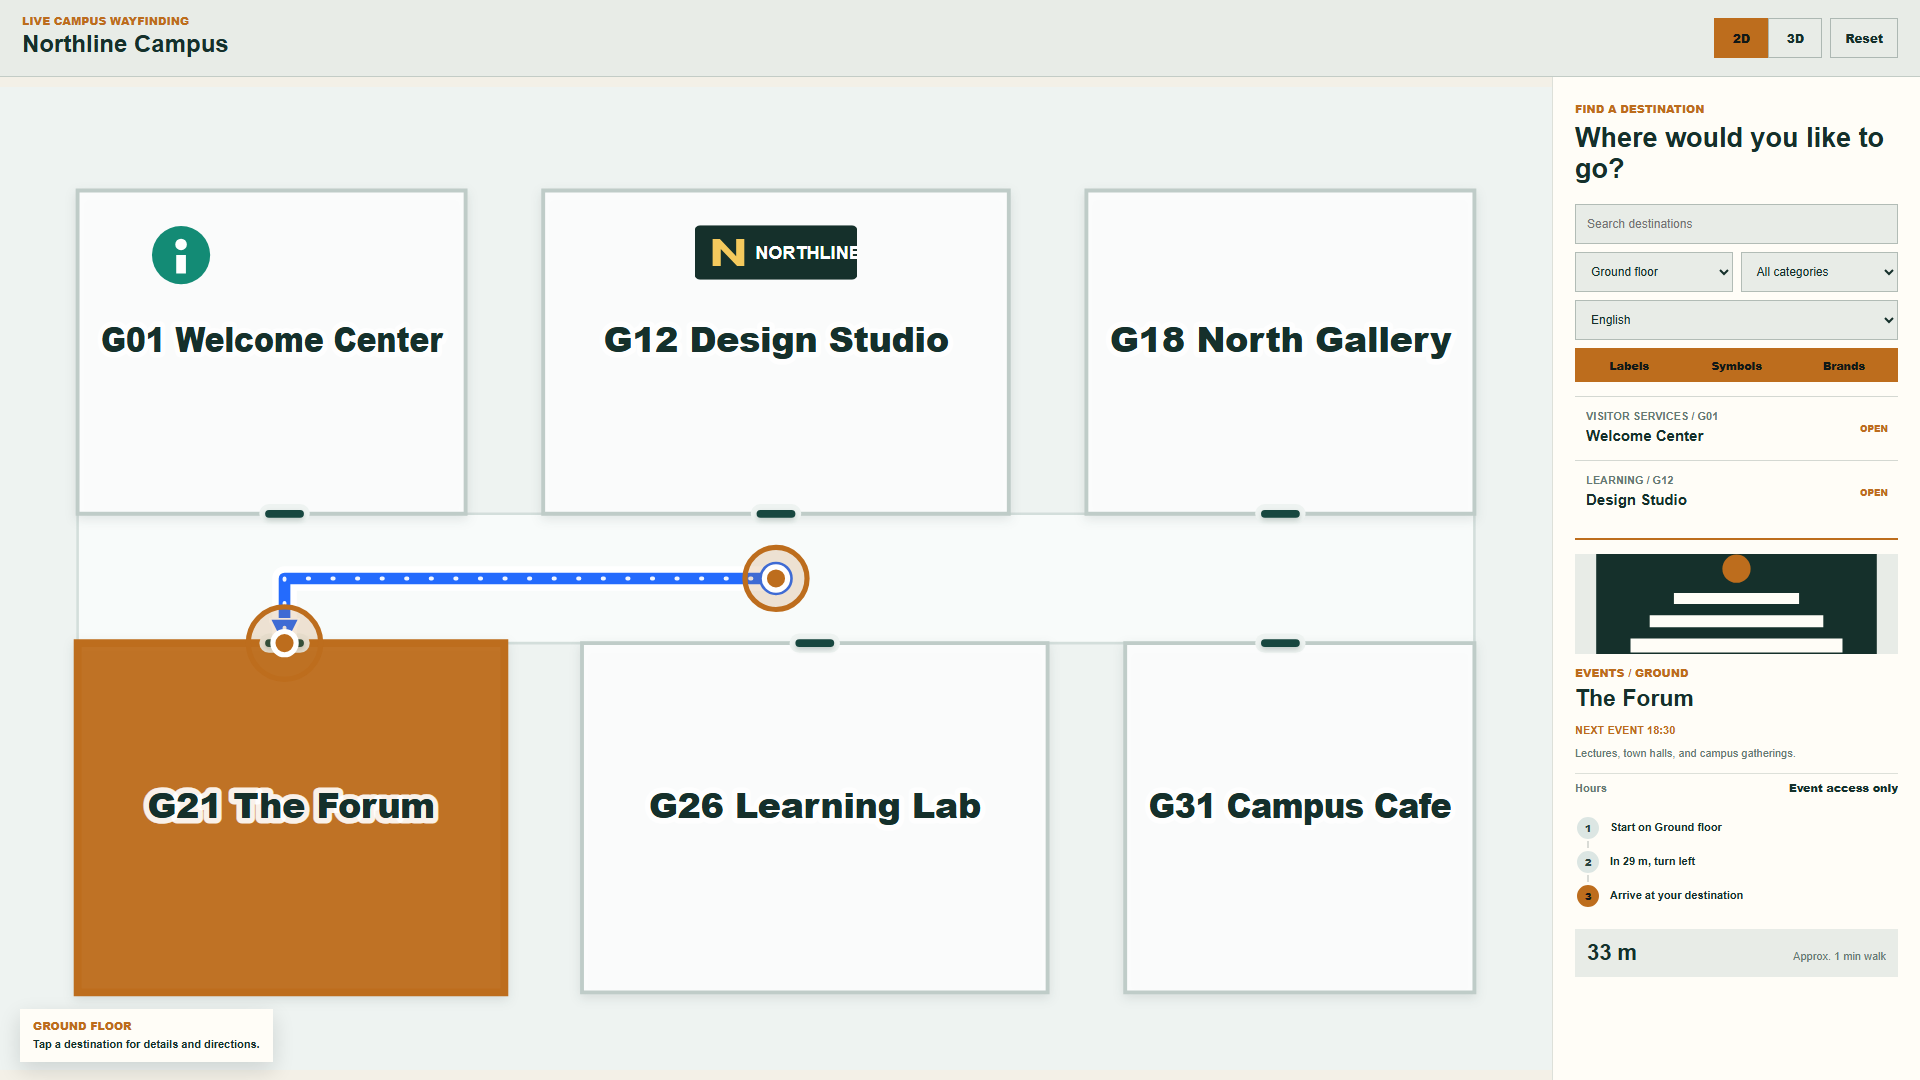
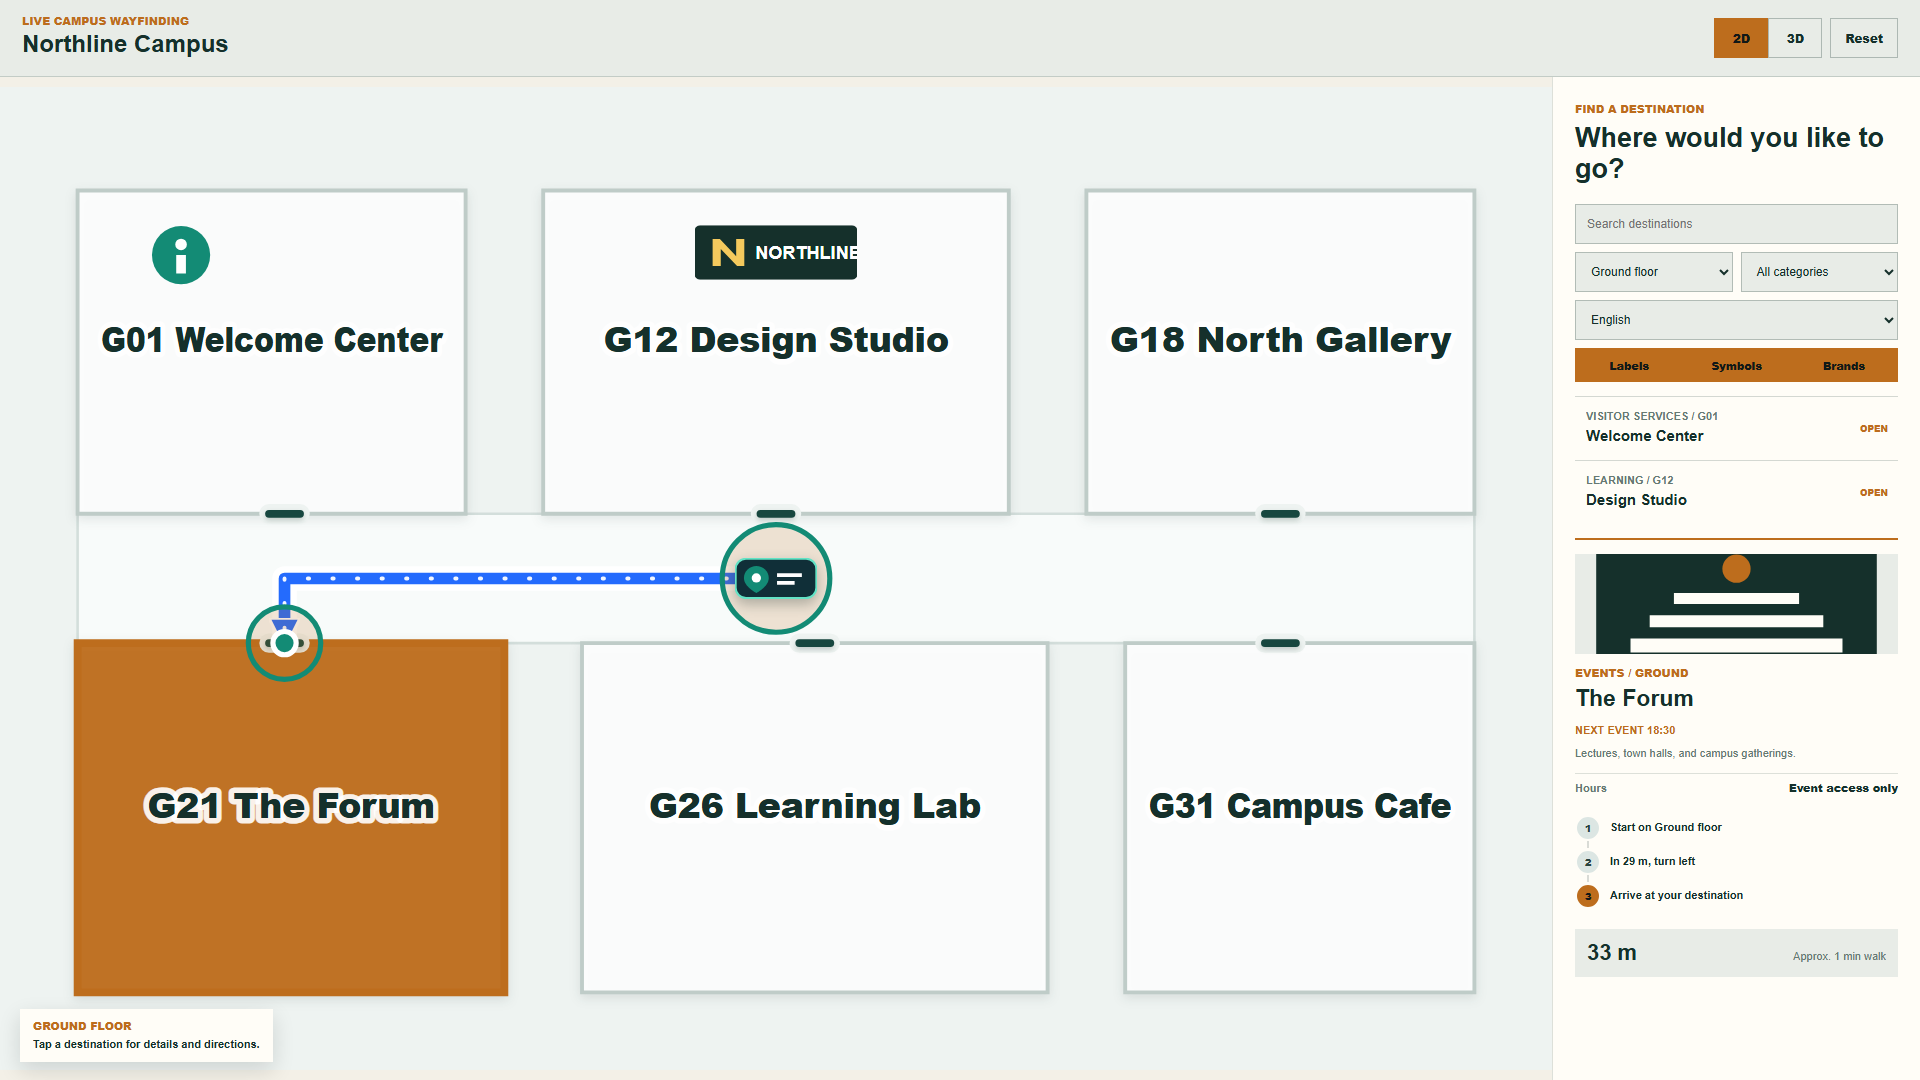
feat: support custom Wayfinding origin markers

Changed region(s): [[0.375, 0.4889, 0.4375, 0.5806], [0.125, 0.55, 0.1875, 0.6417]]

diff --git a/examples/spatial-wayfinding/overlay/src/utils/spatial-scene.ts b/examples/spatial-wayfinding/overlay/src/utils/spatial-scene.ts
@@ -10,6 +10,7 @@ import type {
 	RuntimeMedia,
 	RuntimeOrigin,
 	RuntimePointOfInterest,
+	RuntimeProjectDefaults,
 	RuntimePolygon
 } from '@interfaces/spatial-wayfinding.interface';
 
@@ -96,11 +97,23 @@ const createImageTexture = (
 	return texture;
 };
 
+const markerDimensions = (asset: RuntimeAsset, maximumSide: number): { height: number; width: number } => {
+	const ratio: number = Math.max(
+		0.2,
+		Math.min(5, (asset.naturalWidth ?? 1) / Math.max(1, asset.naturalHeight ?? 1))
+	);
+
+	return ratio >= 1
+		? { height: maximumSide / ratio, width: maximumSide }
+		: { height: maximumSide, width: maximumSide * ratio };
+};
+
 export interface SpatialSceneOptions {
 	accentColor: () => string;
 	assets: RuntimeAsset[];
 	motionEnabled: () => boolean;
 	onSelectDestination: (destinationId: string) => void;
+	originDefaults: RuntimeProjectDefaults['origin'];
 	routeAnimationSpeed: () => number;
 	routeColor: () => string;
 	routeWidth: () => number;
@@ -111,6 +124,7 @@ export class SpatialScene {
 	private readonly controls: OrbitControls;
 	private readonly destinationObjects = new Map<string, THREE.Object3D[]>();
 	private frameId?: number;
+	private readonly originMarkers: THREE.Object3D[] = [];
 	private readonly originPulses: THREE.Group[] = [];
 	private pointerStart?: { x: number; y: number };
 	private readonly raycaster = new THREE.Raycaster();
@@ -436,16 +450,49 @@ export class SpatialScene {
 	}
 
 	private addOrigin(element: RuntimeOrigin): void {
-		const color = '#0f8f78';
-		const marker = new THREE.Mesh(
-			new THREE.CylinderGeometry(13, 13, 8, 24),
-			new THREE.MeshStandardMaterial({ color, emissive: color, emissiveIntensity: 0.35 })
-		);
-		marker.position.copy(centeredPoint(this.floor, element.point, 8));
+		const defaults = this.options.originDefaults;
+		const color: string = defaults.color;
+		const markerSize: number = defaults.markerSize3d ?? 46;
+		const markerAsset: RuntimeAsset | undefined = defaults.markerAssetId
+			? this.options.assets.find(
+				(asset): boolean => asset.id === defaults.markerAssetId && asset.kind === 'symbol'
+			)
+			: undefined;
+		let marker: THREE.Object3D;
+
+		if (markerAsset) {
+			const dimensions = markerDimensions(markerAsset, markerSize);
+			const texture = createImageTexture(markerAsset, (): void => {
+				this.renderer.domElement.dataset.originMarkerTexture = 'ready';
+			});
+			const sprite = new THREE.Sprite(new THREE.SpriteMaterial({
+				depthTest: false,
+				map: texture,
+				transparent: true
+			}));
+			sprite.scale.set(dimensions.width, dimensions.height, 1);
+			sprite.position.copy(centeredPoint(this.floor, element.point, dimensions.height / 2 + 8));
+			sprite.renderOrder = 30;
+			marker = sprite;
+			this.renderer.domElement.setAttribute('data-origin-marker-3d', 'custom-image-replacement');
+			this.renderer.domElement.dataset.originMarkerSize3d = markerSize.toString();
+		} else {
+			const pin = new THREE.Mesh(
+				new THREE.CylinderGeometry(13, 13, 8, 24),
+				new THREE.MeshStandardMaterial({ color, emissive: color, emissiveIntensity: 0.35 })
+			);
+			pin.position.copy(centeredPoint(this.floor, element.point, 8));
+			marker = pin;
+			this.renderer.domElement.setAttribute('data-origin-marker-3d', 'default');
+		}
+
+		marker.userData.baseY = marker.position.y;
+		marker.userData.baseScale = marker.scale.clone();
+		this.originMarkers.push(marker);
 		const pulse = new THREE.Group();
 		pulse.position.copy(centeredPoint(this.floor, element.point, 3));
 		const ring = new THREE.Mesh(
-			new THREE.RingGeometry(18, 24, 32),
+			new THREE.RingGeometry(Math.max(18, markerSize * 0.42), Math.max(24, markerSize * 0.56), 32),
 			new THREE.MeshBasicMaterial({ color, side: THREE.DoubleSide, transparent: true, opacity: 0.72 })
 		);
 		ring.rotation.x = -Math.PI / 2;
@@ -468,6 +515,7 @@ export class SpatialScene {
 			this.registerDestinationObject(element.destinationId, marker);
 			this.selectable.push(marker);
 		}
+
 		this.scene.add(marker);
 	}
 
@@ -480,9 +528,19 @@ export class SpatialScene {
 	private animate(): void {
 		const frame = (time: number): void => {
 			this.controls.update();
-			const pulse: number = this.options.motionEnabled() ? 1 + Math.sin(time / 360) * 0.18 : 1;
+			const animation = this.options.motionEnabled() ? this.options.originDefaults.animation3d : 'none';
+			const phase: number = Math.sin(time / Math.max(240, this.options.originDefaults.animationSpeed * 10));
+			const pulse: number = animation === 'none' ? 1 : 1 + phase * 0.18;
 
 			for (const originPulse of this.originPulses) originPulse.scale.set(pulse, pulse, pulse);
+
+			for (const originMarker of this.originMarkers) {
+				const baseY: number = Number(originMarker.userData.baseY ?? originMarker.position.y);
+				const baseScale = originMarker.userData.baseScale as THREE.Vector3;
+				originMarker.position.y = baseY + (animation === 'bounce' ? phase * 5 : 0);
+				originMarker.scale.copy(baseScale).multiplyScalar(animation === 'pulse' ? 1 + phase * 0.08 : 1);
+			}
+
 			this.selectedPulse.scale.set(pulse, pulse, pulse);
 
 			if (this.options.motionEnabled() && this.routeTotalLength > 0) {

diff --git a/examples/spatial-wayfinding/overlay/src/components/wb-app/wb-app.tsx b/examples/spatial-wayfinding/overlay/src/components/wb-app/wb-app.tsx
@@ -60,6 +60,17 @@ const mediaDimensions = (media: RuntimeMedia, asset?: RuntimeAsset): { height: n
 	return { height: media.height, width: media.height * ratio };
 };
 
+const markerDimensions = (asset: RuntimeAsset, maximumSide: number): { height: number; width: number } => {
+	const ratio: number = Math.max(
+		0.2,
+		Math.min(5, (asset.naturalWidth ?? 1) / Math.max(1, asset.naturalHeight ?? 1))
+	);
+
+	return ratio >= 1
+		? { height: maximumSide / ratio, width: maximumSide }
+		: { height: maximumSide, width: maximumSide * ratio };
+};
+
 export default (props: WbAppProps): JSX.Element => {
 	void props;
 	const settings: Accessor<Settings> = useSettings();
@@ -238,6 +249,21 @@ export default (props: WbAppProps): JSX.Element => {
 	const backgroundAsset = createMemo((): RuntimeAsset | undefined =>
 		runtime()?.assets.find((asset): boolean => asset.id === floor()?.backgroundAssetId)
 	);
+	const originMarkerAsset = createMemo((): RuntimeAsset | undefined => {
+		const loaded = runtime();
+		const markerAssetId: string | undefined = loaded?.defaults.origin.markerAssetId;
+
+		return markerAssetId
+			? loaded?.assets.find((asset): boolean => asset.id === markerAssetId && asset.kind === 'symbol')
+			: undefined;
+	});
+	const originMarkerDimensions = createMemo((): { height: number; width: number } | undefined => {
+		const asset = originMarkerAsset();
+
+		return asset
+			? markerDimensions(asset, runtime()?.defaults.origin.markerSize2d ?? 28)
+			: undefined;
+	});
 	const selectedPhotos = createMemo((): RuntimeAsset[] => {
 		const photoIds: string[] = selected()?.photoAssetIds ?? [];
 
@@ -253,6 +279,7 @@ export default (props: WbAppProps): JSX.Element => {
 	const themeStyle = createMemo((): JSX.CSSProperties => ({
 		'--wb-spatial-accent': settings().accentColor,
 		'--wb-spatial-background': settings().backgroundColor,
+		'--wb-spatial-origin': runtime()?.defaults.origin.color ?? settings().accentColor,
 		'--wb-spatial-panel': settings().panelColor,
 		'--wb-spatial-primary': settings().primaryTextColor,
 		'--wb-spatial-route': runtime()?.defaults.route.color ?? settings().accentColor,
@@ -299,6 +326,7 @@ export default (props: WbAppProps): JSX.Element => {
 			assets: loaded.assets,
 			motionEnabled: (): boolean => settings().motionPreset !== 'off',
 			onSelectDestination: chooseDestination,
+			originDefaults: loaded.defaults.origin,
 			routeAnimationSpeed: (): number => loaded.defaults.route.animationSpeed,
 			routeColor: (): string => loaded.defaults.route.color || settings().accentColor,
 			routeWidth: (): number => loaded.defaults.route.lineWidth
@@ -552,12 +580,48 @@ export default (props: WbAppProps): JSX.Element => {
 									)}
 								</For>
 								<For each={activeFloor().elements.filter((element): element is RuntimeOrigin => element.type === 'origin')}>
-									{(origin: RuntimeOrigin): JSX.Element => (
-										<g class="wb-spatial-wayfinding-origin">
-											<circle cx={origin.point.x} cy={origin.point.y} r="24" />
-											<circle cx={origin.point.x} cy={origin.point.y} r="9" />
-										</g>
-									)}
+									{(origin: RuntimeOrigin): JSX.Element => {
+										const markerSize: number = runtime()?.defaults.origin.markerSize2d ?? 28;
+										const dimensions = originMarkerDimensions();
+
+										return (
+											<g
+												class="wb-spatial-wayfinding-origin"
+												data-origin-marker={originMarkerAsset() ? 'custom-image-replacement' : 'default'}
+											>
+												<circle
+													class="wb-spatial-wayfinding-origin-beacon"
+													cx={origin.point.x}
+													cy={origin.point.y}
+													r={Math.max(24, markerSize * 0.65)}
+												/>
+												<Show
+													when={originMarkerAsset()}
+													fallback={(
+														<circle
+															class="wb-spatial-wayfinding-origin-core"
+															cx={origin.point.x}
+															cy={origin.point.y}
+															r={Math.max(7, markerSize * 0.32)}
+														/>
+													)}
+												>
+													{(asset): JSX.Element => (
+														<image
+															class="wb-spatial-wayfinding-origin-artwork"
+															data-origin-marker-2d="custom-image-replacement"
+															href={asset().dataUrl}
+															x={origin.point.x - dimensions!.width / 2}
+															y={origin.point.y - dimensions!.height / 2}
+															width={dimensions!.width}
+															height={dimensions!.height}
+															preserveAspectRatio="xMidYMid meet"
+														/>
+													)}
+												</Show>
+											</g>
+										);
+									}}
 								</For>
 								<Show when={selectedTarget()}>
 									{(target: Accessor<WayfindingPoint>): JSX.Element => (

diff --git a/examples/spatial-wayfinding/overlay/src/utils/wayfinding-map-package.ts b/examples/spatial-wayfinding/overlay/src/utils/wayfinding-map-package.ts
@@ -10,6 +10,8 @@ import type {
 import type { WayfindingGraphDocument } from '@utils/wayfinding';
 
 const FORMAT = 'wallboard-wayfinding-map';
+const DEFAULT_ORIGIN_MARKER_SIZE_2D = 28;
+const DEFAULT_ORIGIN_MARKER_SIZE_3D = 46;
 
 type PublishedAssetDescriptor = Omit<RuntimeAsset, 'bytes' | 'dataUrl'>;
 
@@ -89,6 +91,29 @@ const inlineAssets = (svg: string, assets: RuntimeAsset[]): string => {
 	return result;
 };
 
+const normalizeProjectDefaults = (
+	defaults: RuntimeProjectDefaults,
+	assets: RuntimeAsset[]
+): RuntimeProjectDefaults => {
+	const markerAssetId: string | undefined = defaults.origin.markerAssetId;
+
+	if (
+		markerAssetId
+		&& !assets.some((asset): boolean => asset.id === markerAssetId && asset.kind === 'symbol')
+	) {
+		throw new Error(`The published You are here marker '${markerAssetId}' is missing or is not a symbol asset.`);
+	}
+
+	return {
+		...defaults,
+		origin: {
+			...defaults.origin,
+			markerSize2d: Math.max(20, Math.min(96, defaults.origin.markerSize2d ?? DEFAULT_ORIGIN_MARKER_SIZE_2D)),
+			markerSize3d: Math.max(28, Math.min(120, defaults.origin.markerSize3d ?? DEFAULT_ORIGIN_MARKER_SIZE_3D))
+		}
+	};
+};
+
 export const loadWayfindingMapPackage = (archive: Uint8Array): WayfindingRuntimeBundle => {
 	const entries: Record<string, Uint8Array> = unzipSync(archive);
 	const manifest = parseJson<PublishedManifest>(entries, 'manifest.json');
@@ -128,7 +153,7 @@ export const loadWayfindingMapPackage = (archive: Uint8Array): WayfindingRuntime
 		assets,
 		categories: map.categories,
 		defaultLanguage: map.defaultLanguage,
-		defaults: map.defaults,
+		defaults: normalizeProjectDefaults(map.defaults, assets),
 		destinations: { Destinations: { rows: destinationDocument.Destinations?.rows ?? [] } },
 		format: 'wallboard-wayfinding-runtime',
 		formatVersion: 1,

diff --git a/examples/spatial-wayfinding/overlay/src/components/wb-app/wb-app.module.scss b/examples/spatial-wayfinding/overlay/src/components/wb-app/wb-app.module.scss
@@ -303,11 +303,11 @@
 	letter-spacing: -0.01em;
 }
 
-:global(.wb-spatial-wayfinding-origin circle:first-child),
+:global(.wb-spatial-wayfinding-origin-beacon),
 :global(.wb-spatial-wayfinding-target-pulse),
 :global(.wb-spatial-wayfinding-selected-poi circle:first-child) {
 	fill: rgba(189, 109, 29, 0.18);
-	stroke: var(--wb-spatial-accent);
+	stroke: var(--wb-spatial-origin);
 	stroke-width: 4px;
 	transform-box: fill-box;
 	transform-origin: center;
@@ -315,12 +315,17 @@
 	pointer-events: none;
 }
 
-:global(.wb-spatial-wayfinding-origin circle:last-child),
+:global(.wb-spatial-wayfinding-origin-core),
 :global(.wb-spatial-wayfinding-poi circle:last-child),
 :global(.wb-spatial-wayfinding-target-core) {
-	fill: var(--wb-spatial-accent);
+	fill: var(--wb-spatial-origin);
 	stroke: #ffffff;
 	stroke-width: 4px;
+}
+
+:global(.wb-spatial-wayfinding-origin-artwork) {
+	filter: drop-shadow(0 4px 5px rgba(10, 31, 29, 0.28));
+	pointer-events: none;
 }
 
 :global(.wb-spatial-wayfinding-poi) {
@@ -344,7 +349,7 @@
 }
 
 :global(.wb-spatial-wayfinding-root[data-motion='off'] .wb-spatial-wayfinding-route-flow),
-:global(.wb-spatial-wayfinding-root[data-motion='off'] .wb-spatial-wayfinding-origin circle:first-child),
+:global(.wb-spatial-wayfinding-root[data-motion='off'] .wb-spatial-wayfinding-origin-beacon),
 :global(.wb-spatial-wayfinding-root[data-motion='off'] .wb-spatial-wayfinding-target-pulse),
 :global(.wb-spatial-wayfinding-root[data-motion='off'] .wb-spatial-wayfinding-selected-media) {
 	animation: none;

diff --git a/examples/spatial-wayfinding/overlay/preview/behavior.spec.ts b/examples/spatial-wayfinding/overlay/preview/behavior.spec.ts
@@ -130,6 +130,22 @@ test('loads the published map package and renders a nonblank WebGL scene', async
 	expect(dataUrlLength).toBeGreaterThan(8_000);
 });
 
+test('replaces the complete 2D and 3D origin artwork with the published custom marker', async ({ page }): Promise<void> => {
+	await openApp(page);
+	const root = page.locator('[data-preview-id="spatial-wayfinding-root"]');
+	const canvas = root.locator('canvas');
+	await expect(canvas).toHaveAttribute('data-origin-marker-3d', 'custom-image-replacement');
+	await expect(canvas).toHaveAttribute('data-origin-marker-size3d', '84');
+	await expect(canvas).toHaveAttribute('data-origin-marker-texture', 'ready');
+	await page.getByRole('button', { name: '2D', exact: true }).click();
+	const marker = page.locator('.wb-spatial-wayfinding-origin');
+	await expect(marker).toHaveAttribute('data-origin-marker', 'custom-image-replacement');
+	await expect(marker.locator('.wb-spatial-wayfinding-origin-artwork')).toHaveAttribute('width', '64');
+	await expect(marker.locator('.wb-spatial-wayfinding-origin-artwork')).toHaveAttribute('height', '32');
+	await expect(marker.locator('.wb-spatial-wayfinding-origin-core')).toHaveCount(0);
+	await expect(marker.locator('.wb-spatial-wayfinding-origin-beacon')).toHaveCount(1);
+});
+
 test('shows destination media, metadata, and a route in both map views', async ({ page }): Promise<void> => {
 	await openApp(page);
 	const root = page.locator('[data-preview-id="spatial-wayfinding-root"]');

diff --git a/examples/spatial-wayfinding/overlay/src/interfaces/spatial-wayfinding.interface.ts b/examples/spatial-wayfinding/overlay/src/interfaces/spatial-wayfinding.interface.ts
@@ -154,6 +154,9 @@ export interface RuntimeProjectDefaults {
 		animation3d: 'bounce' | 'none' | 'pulse';
 		animationSpeed: number;
 		color: string;
+		markerAssetId?: string;
+		markerSize2d?: number;
+		markerSize3d?: number;
 	};
 	route: {
 		animation: 'flow' | 'none' | 'pulse';

diff --git a/docs/system/wayfinding.md b/docs/system/wayfinding.md
@@ -145,6 +145,11 @@ The 3D switch is shown only when the active project passes geometry, camera, con
 - Symbols are semantic and may adapt to theme.
 - Logos preserve brand identity.
 - Photos belong to destination details unless explicitly placed as map media.
+- A custom You are here artwork uses an asset with `kind: "marker"` and is referenced by `defaults.origin.markerAssetId`.
+- The marker image replaces the complete default marker artwork in both 2D and 3D; consumers must not composite the old pin or center dot behind it.
+- `defaults.origin.markerSize2d` (20-96 map units) and `markerSize3d` (28-120 map units) control independent maximum sides while preserving the image aspect ratio.
+- Published packages expose the referenced marker as a `symbol` runtime asset. In 3D it remains upright and camera-facing; the separate ground/pulse beacon may remain visible.
+- Packages without a marker reference retain the default origin marker. Consumers use 28 and 46 as the legacy-compatible 2D and 3D size fallbacks.
 - Map media uses center-based placement, scale, and rotation.
 - File inputs are hidden behind accessible upload controls with validation, preview, metadata, replace, and remove actions.
 
